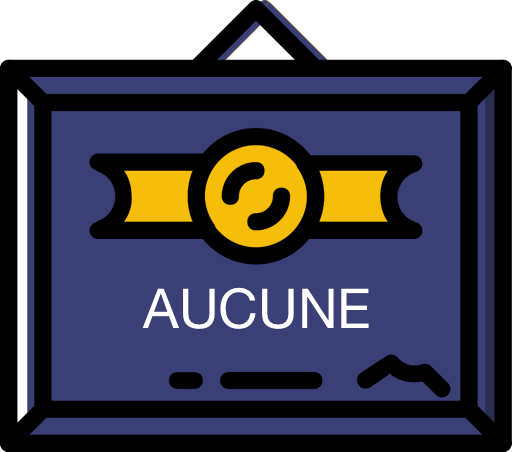
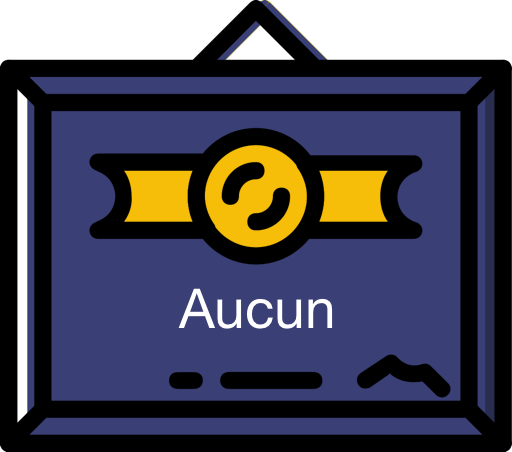
fin du modifinscriptionPdf, manque juste la modification de user criteres à faire

Changed region(s): [[0.2812, 0.6195, 0.7188, 0.7434]]

diff --git a/src/SosBundle/Controller/UserController.php b/src/SosBundle/Controller/UserController.php
@@ -105,18 +105,20 @@ class UserController extends Controller
                 $disponibilitesArr[] = json_decode($critere->getDisponibilites());
 
             }
+            
             $disponibilitesArr = array_unique($disponibilitesArr, SORT_REGULAR);
             $postesArr = array_unique($postesArr, SORT_REGULAR);
             $contratsArr = array_unique($contratsArr, SORT_REGULAR);
             $formationsArr = array_unique($formationsArr);
             $anglaisArr = array_unique($anglaisArr);
             $userCriteres = array('formations' => $formationsArr, 'postes' => $postesArr, 'anglais' => $anglaisArr[0], 'contrats' => $contratsArr, 'disponibilite' => $disponibilitesArr);
-
+            
+            $recommandations = $user->getRecommandations();
             $now = new \DateTime('now');
             $age = $user->getDateNaissance();
             $userAge = $now->diff($age);
             
-            return $this->render('SosBundle:User:publicProfil.html.twig', array("user" => $user, 'userCriteres' => $userCriteres, 'userAge' => $userAge->y));  
+            return $this->render('SosBundle:User:publicProfil.html.twig', array("user" => $user, 'userCriteres' => $userCriteres, 'userAge' => $userAge->y, 'recommandations' => $recommandations));  
         }
         else
         {

diff --git a/src/SosBundle/Entity/User.php b/src/SosBundle/Entity/User.php
@@ -53,6 +53,12 @@ class User extends BaseUser
     public $criteres;
 
     /**
+     *
+     * @ORM\OneToMany(targetEntity="Recommandation", mappedBy="user",cascade={"remove"})
+     */
+    public $recommandations;
+
+    /**
      * @var string
      *
      * @ORM\Column(name="date_abonnement", type="date", nullable=true)
@@ -256,4 +262,38 @@ class User extends BaseUser
         return $dateInterval->y;
     }
 
+
+    /**
+     * Add recommandation
+     *
+     * @param \SosBundle\Entity\Recommandation $recommandation
+     *
+     * @return User
+     */
+    public function addRecommandation(\SosBundle\Entity\Recommandation $recommandation)
+    {
+        $this->recommandations[] = $recommandation;
+
+        return $this;
+    }
+
+    /**
+     * Remove recommandation
+     *
+     * @param \SosBundle\Entity\Recommandation $recommandation
+     */
+    public function removeRecommandation(\SosBundle\Entity\Recommandation $recommandation)
+    {
+        $this->recommandations->removeElement($recommandation);
+    }
+
+    /**
+     * Get recommandations
+     *
+     * @return \Doctrine\Common\Collections\Collection
+     */
+    public function getRecommandations()
+    {
+        return $this->recommandations;
+    }
 }

diff --git a/src/SosBundle/Controller/UserCriteresController.php b/src/SosBundle/Controller/UserCriteresController.php
@@ -441,8 +441,8 @@ class UserCriteresController extends Controller
             $repoEtablissement = $em->getRepository('SosBundle:Etablissement');
 
             //****SCORE*****
-            $user = $this->get('security.token_storage')->getToken()->getUser();
-            $pointsAnglais = $em->getRepository("SosBundle:UserCritere")->findOneBy(array("user"=>$user->getId()))->getNiveauAnglais()->getPoints();
+            $anglais = $em->getRepository('SosBundle:Anglais')->find($resultat['anglais']);
+            $pointsAnglais = $anglais->getPoints();
             $pointsTotal=0;
             foreach ($resultat['postes'] as $k => $poste) {
                 $pointsExperience = $repoExperience->find(($poste['experience']))->getPoints();

diff --git a/src/SosBundle/Entity/Recommandation.php b/src/SosBundle/Entity/Recommandation.php
@@ -24,7 +24,7 @@ class Recommandation
 
     /**
      *
-     * @ORM\ManyToOne(targetEntity="User")
+     * @ORM\ManyToOne(targetEntity="User", inversedBy="recommandations")
      */
     private $user;
 
@@ -33,8 +33,6 @@ class Recommandation
      * @ORM\ManyToOne(targetEntity="Civilite")
      */
     private $civilite;
-
-
 
     /**
      * @ORM\Column(name="nom_etablissement", type="string", length=255)
